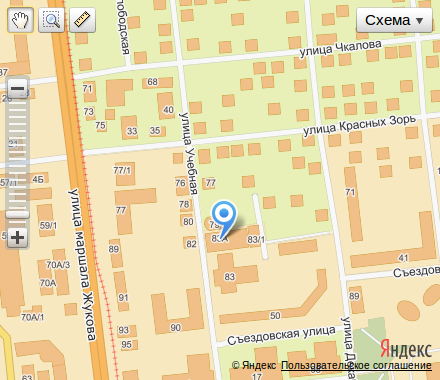
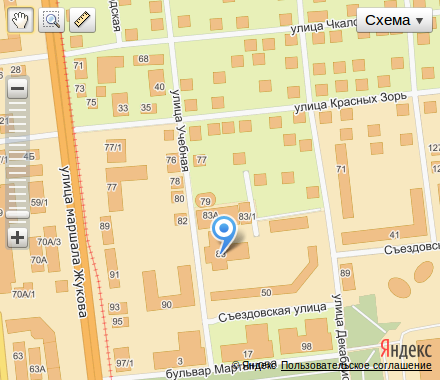
Yandex map has been changed

diff --git a/assets/js/yandex-map.js b/assets/js/yandex-map.js
@@ -1,19 +1,20 @@
-function fid_133999665283018323121(ymaps) {
-    var map = new ymaps.Map("ymaps-map-id_133999665283018323121", {
-        center: [73.39137049999992, 54.97788376683191],
+function fid_134207103620382262664(ymaps) {
+    var map = new ymaps.Map("ymaps-map-id_134207103620382262664", {
+        center: [73.39157700000001, 54.97759290180148],
         zoom: 16,
         type: "yandex#map"
     });
-
     map.behaviors.enable('scrollZoom');
     map.controls
         .add("zoomControl")
         .add("mapTools")
         .add(new ymaps.control.TypeSelector(["yandex#map", "yandex#satellite", "yandex#hybrid", "yandex#publicMap"]));
     map.geoObjects
-        .add(new ymaps.Placemark([73.391371, 54.977279], {
-        balloonContent: "7bits"
-    }, {
-        preset: "twirl#lightblueDotIcon"
-    }));
+        .add(new ymaps.Placemark([73.391577, 54.976803], {
+                balloonContent: "7bits"
+            },
+            {
+                preset: "twirl#lightblueDotIcon"
+            }
+        ));
 };
